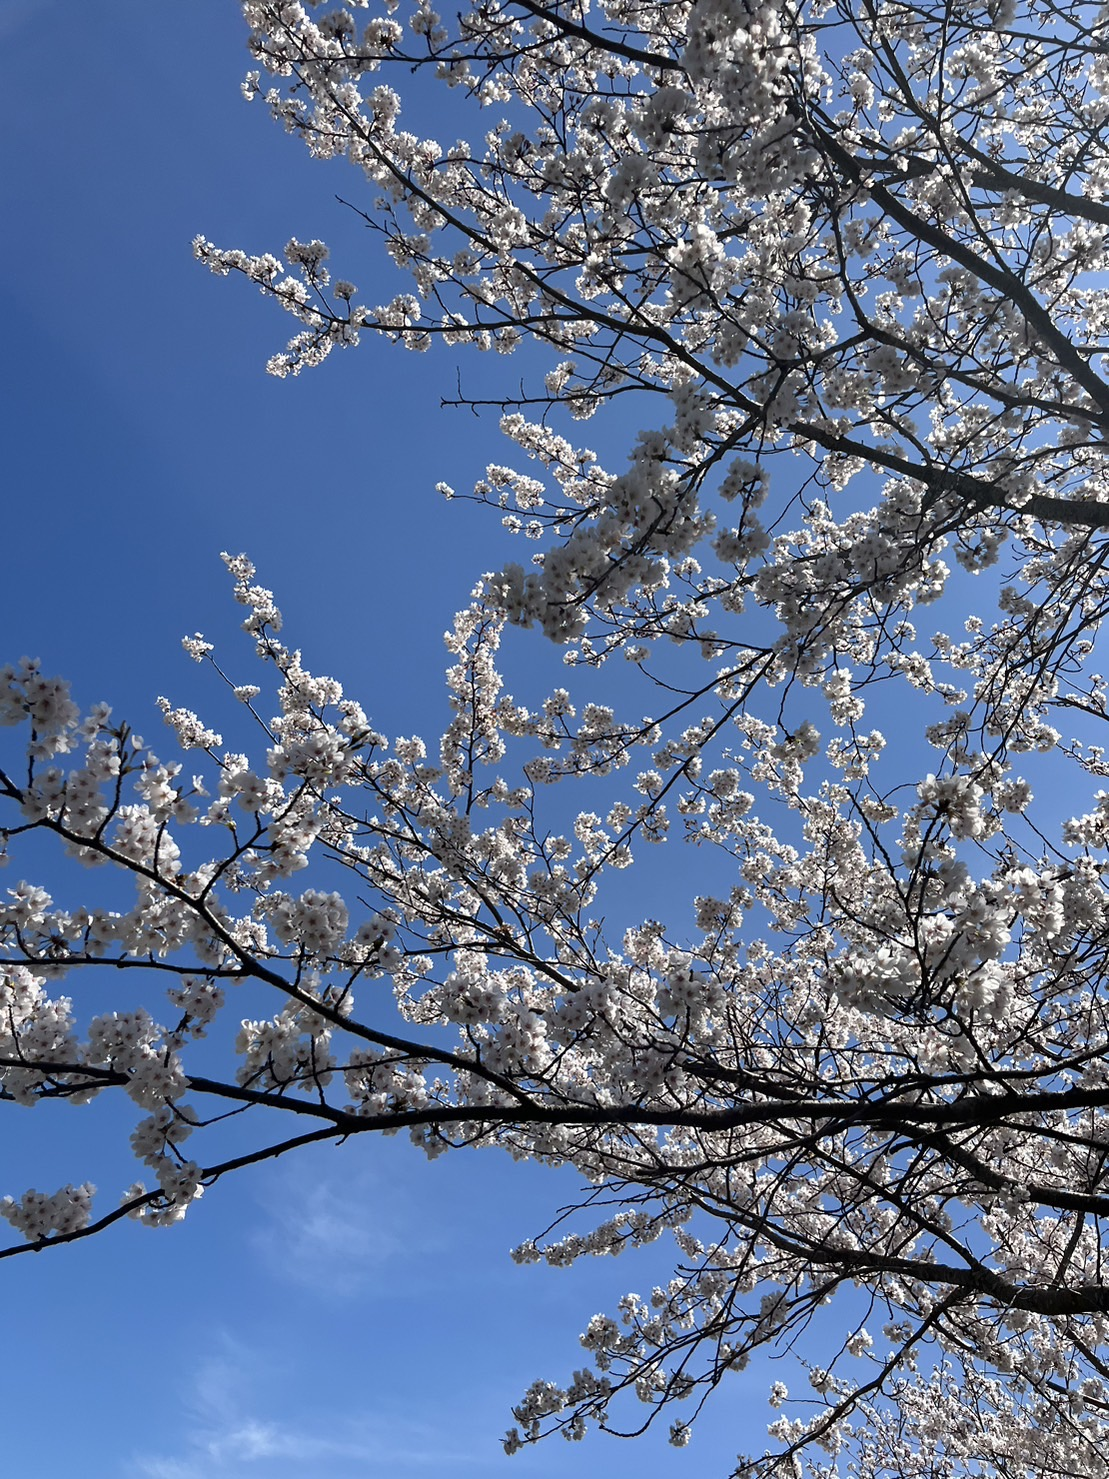
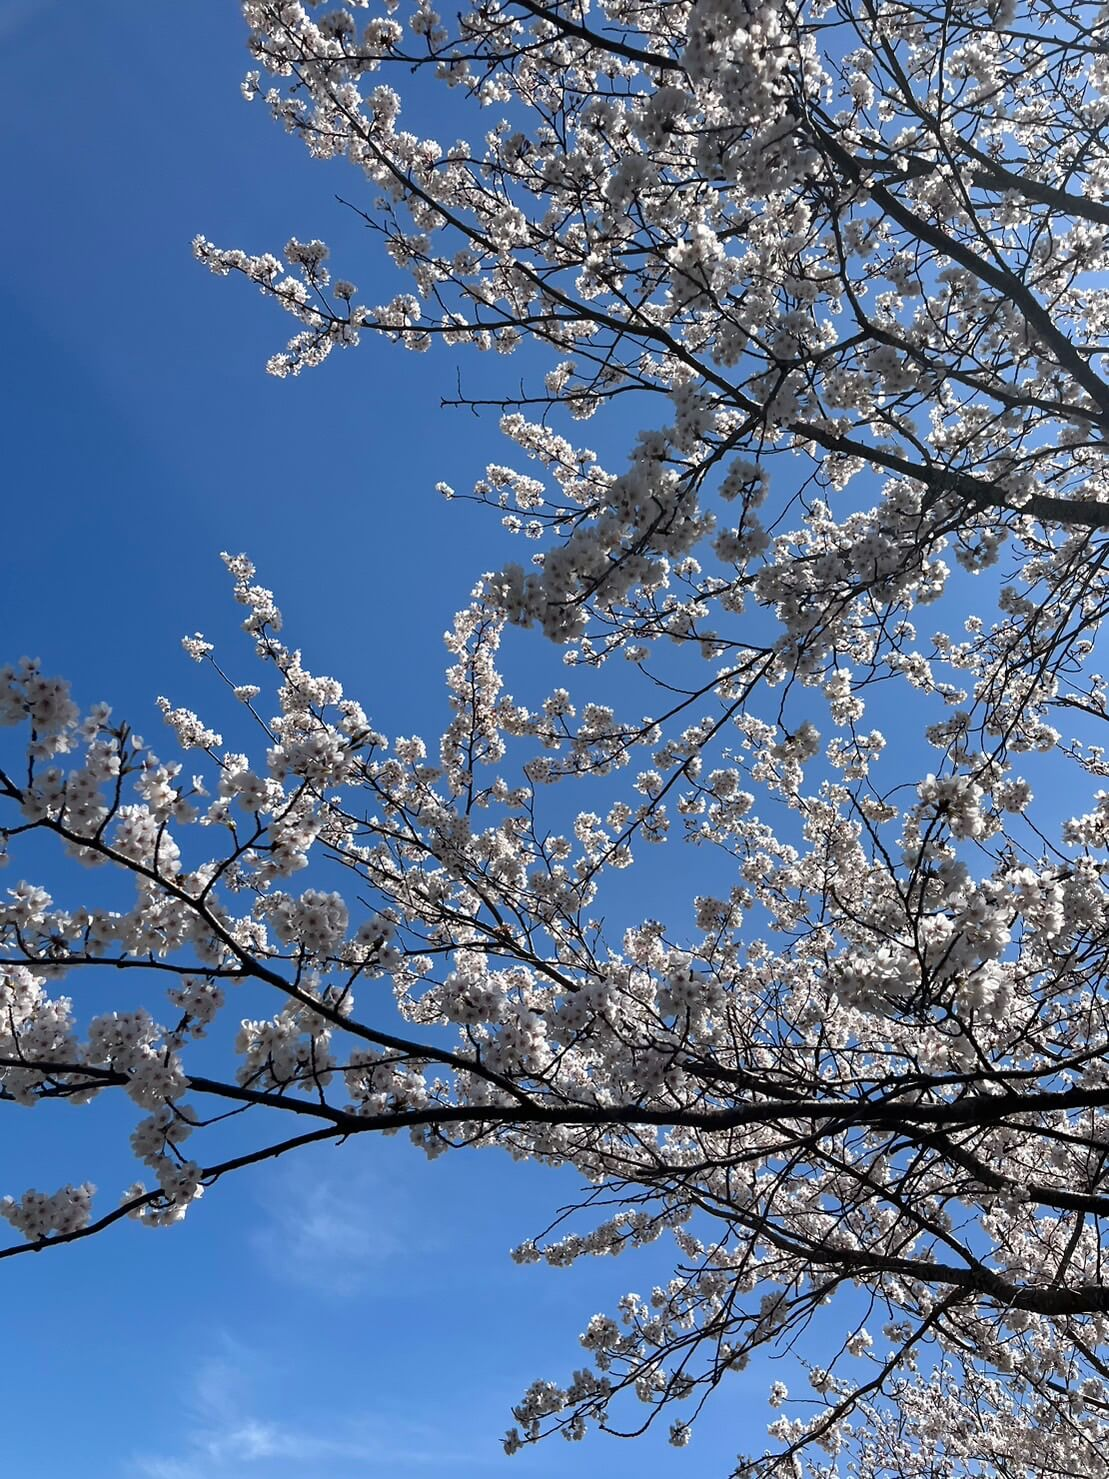
dev: jpeg compression

diff --git a/css/main.css b/css/main.css
@@ -1,19 +1,19 @@
 :root {
     /* main */
     --color-primary: #56B7E1;
-    --color-seconday: #0883B8;
-    --color-accent: ;
+    --color-primary-dark: #0883B8;
+    --color-accent: #FFFFFE;
 
     /* typography */
-    --color-text-black: black;
-    --color-text-white: #f3f3f3;
-    --color-text-grey: lightgrey;
+    --color-text-black: #094067;
+    --color-text-white: #FFFFFE;
+    --color-text-grey: #5F6C7B;
 
     /* content */
-    --color-content-back: white;
+    --color-content-back: #FFFFFE;
 
     /* footer */
-    --color-footer-back: lightgrey;
+    --color-footer-back: #D9D9D9;
 }
 
 * {
@@ -33,7 +33,12 @@
 body {
     margin: 0;
     padding: 0;
-    background-color: ;
+    background-color: #FFFFFE;
+}
+
+img {
+    width: 100%;
+    height: auto;
 }
 
 /* Header */
@@ -82,44 +87,8 @@ header > h1 {
 }
 
 .topnav > a:hover {
-    background-color: var(--color-seconday);
+    background-color: var(--color-primary-dark);
 }
-
-/* Side navigation */
-/* .sidenav {
-    height: 100%;
-    width: 160px;
-    position: fixed;
-    z-index: 1;
-    top: 0;
-    left: 0;
-    background-color: black;
-    overflow-x: hidden;
-    padding-top: 20px;
-} */
-
-/* .sidenav > a {
-    padding: 6px 8px 6px 16px;
-    text-decoration: none;
-    font-size: 18px;
-    color: lightgrey;
-    display: block;
-} */
-
-/* .sidenav > a:hover {
-    color: black;
-    background-color: lightgrey;
-} */
-
-/* @media screen and (max-height: 450px) {
-    .sidenav {
-        padding-top: 15px;
-        width: 80px;
-    }
-    .sidenav > a {
-        font-size: 9px;
-    }
-} */
 
 /* Page contents */
 .container {
@@ -128,9 +97,8 @@ header > h1 {
     height: 428px;
     padding: 10px;
     margin: 0 auto;
-    margin-bottom: 15px;
+    margin-bottom: 60px;
     box-shadow: 0 1px 3px rgba(0,0,0,0.12), 0 1px 2px rgba(0,0,0,0.24);
-    background-color: var(--color-content-back);    
     transition: 0.3s;
 }
 
@@ -157,6 +125,7 @@ header > h1 {
 
 .container > p.title {
     text-align: left;
+    color: var(--color-text-black);
     font-size: 24px;
 }
 
@@ -168,7 +137,7 @@ header > h1 {
 
 .taggedimg {
     height: 250px;
-    background-image: url('../assets/sample.jpg');
+    background-image: url('../assets/sample3.jpg');
     background-size: cover;
     position: relative;
     font-size: 18px;
@@ -203,16 +172,25 @@ header > h1 {
 
 /* Footer */
 footer {
+    padding-top: 10px;
     text-align: center;
+    height: 50px;
     background-color: var(--color-footer-back);
-    bottom: 0;
+    box-shadow: inset 0 1px 3px rgba(0,0,0,0.12), 0 1px 2px rgba(0,0,0,0.24);
 }
 
 footer > a {
-    color: var(--color-text-black);
-    padding: 14px 16px;
+    margin: auto;
     text-decoration: none;
-    font-size: 18px;
+}
+
+footer > a:not(:first-child) {
+    margin-left: 25px;
+}
+
+footer img {
+    width: 32px;
+    height: 32px;
 }
 
 /* For desktop: */
@@ -224,8 +202,8 @@ footer > a {
 .col-2 {width: 50%;}
 .col-1 {width: 100%;}
 
-/* Medium devices (landscape tablets, 768px and up) */
-@media only screen and (max-width: 768px) {
+/* For mobile devices */
+@media only screen and (max-width: 1070px) {
     [class*="col-"] {
         width: 100%;
     }

diff --git a/contact.html b/contact.html
@@ -1,0 +1,23 @@
+<!DOCTYPE html>
+<html lang="ja">
+<head>
+    <meta charset="UTF-8">
+    <meta http-equiv="X-UA-Compatible" content="IE=edge">
+    <meta name="viewport" content="width=device-width, initial-scale=1.0">
+    <title>Rainy Days</title>
+    <link rel="stylesheet" href="css/main.css">
+</head>
+<body>
+    <header>
+
+    </header>
+    <main>
+        <section id="">
+            
+        </section>
+    </main>
+    <footer>
+
+    </footer>
+</body>
+</html>

diff --git a/index.html b/index.html
@@ -68,8 +68,8 @@
     </div>
 
     <footer>
-        <a href="#github">GitHub: xxx</a>
-        <a href="#twitter">Twitter: @xxx</a>
+        <a href="#github"><img src="./assets/github_icon.png" alt="github"></a>
+        <a href="#twitter"><img src="./assets/twitter_icon.png" alt="twitter"></a>
     </footer>
 </body>
 </html>
